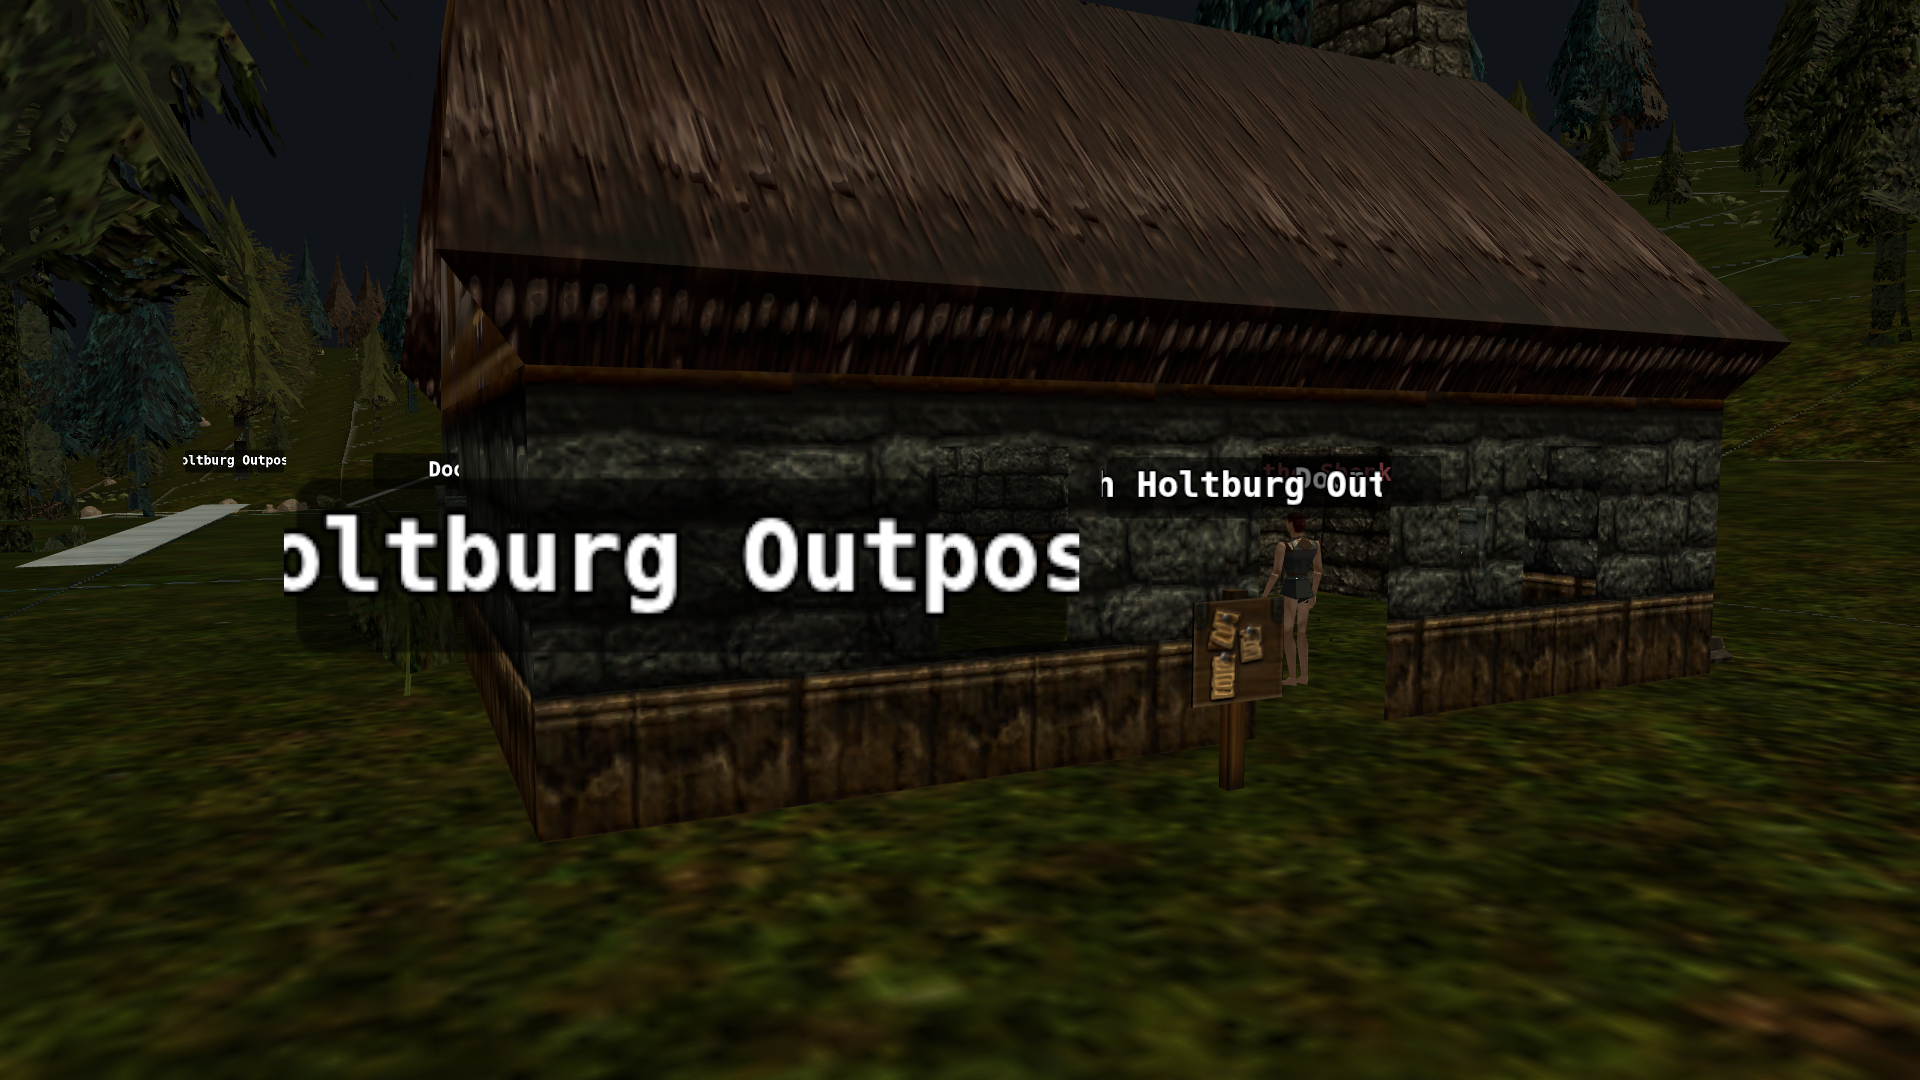
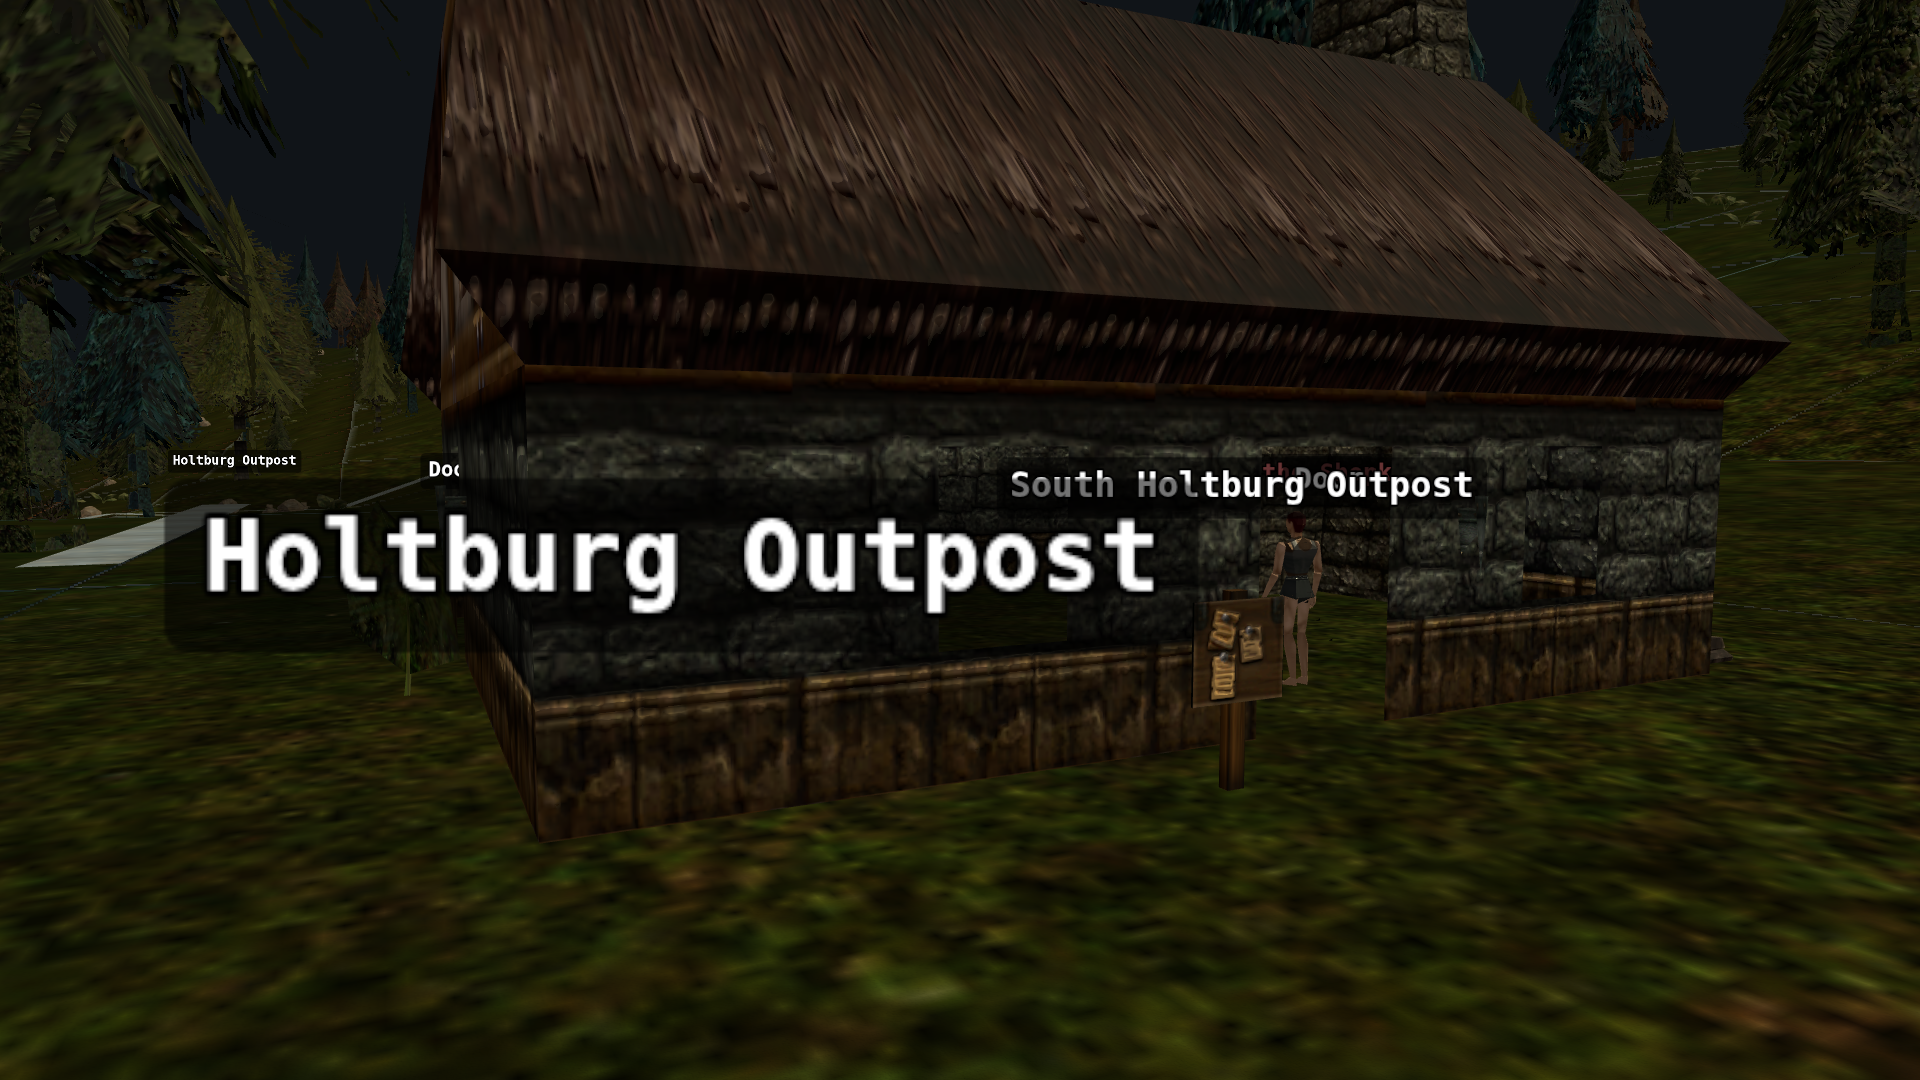
fix(holtburger-web): nameplate text truncation + dedupe-by-guid (D-polish follow-ons)
Two cosmetic bugs surfaced by the Phase D-polish demo screenshots:

**Bug A — text truncation.** The fixed-256px canvas in
nameplate_sprite.js clipped long names. "Hudriffa the Shopkeeper"
(~25 chars × 18px @ 32px bold mono ≈ 450 px) overflowed; centre-
aligned draw at canvas-x=128 made both ends clip — visible as
"ffa the Shopk" in 01-hudriffa-shopkeeper.png (pre-fix).

Fix: canvas width is now computed per-name via `ctx.measureText`
with a fixed pixels-per-world-metre scale (128 px/m matched to
the 32 px font + 0.5 m world-space height). World-space sprite
width derives from the measured canvas width — aspect ratio
always matches, no horizontal stretch.

**Bug B — duplicate nameplate clones.** Each entity could register
multiple `<div>` nameplates because `handleEntitySpawn` (2D, at
index.html:3686) and `__scene3dEntityHook` (3D) both call into
`NameplateLayer.setNameplate(guid, ...)` with the same guid.

Fix: setNameplate now dedupes by u32-coerced GUID. A second call
for the same (guid, name, follow) is a no-op; updates text in
place when name changes; relabels the follow object when the
entity rig is rebuilt. At most one DOM `<div>` exists per GUID.

Smoke +N source-pattern checks for both fixes. Five demo PNGs
re-shot against the new code. Note: 01-hudriffa-shopkeeper.png
shows the building exterior without Hudriffa visible — entity-rig
flood race intermittently affects single-LB injection (separate
follow-on tracked at Task 31's report; root cause in wasm
[…]

Changed region(s): [[0.375, 0.4278, 0.625, 0.6111], [0.0625, 0.4583, 0.3438, 0.55], [0.7188, 0.4278, 0.7812, 0.4889]]

diff --git a/external/holtburger/apps/holtburger-web/scene3d/nameplate_sprite.js b/external/holtburger/apps/holtburger-web/scene3d/nameplate_sprite.js
@@ -62,20 +62,48 @@ import * as THREE from "three";
 // to +Y in three-world after the worldRoot rotation.
 const NAMEPLATE_AC_Z_OFFSET = 2.2;
 
-// Sprite scale in world units. Combined with a 256x64 canvas texture,
-// this gives a 2 m × 0.5 m on-screen rectangle in the world — at a
-// typical 5 m third-person camera distance, the text reads roughly
-// 24 px tall on a 1280 px viewport. The aspect ratio 4:1 must match
-// the canvas aspect or text will stretch.
-const NAMEPLATE_WORLD_WIDTH = 2.0;
+// Sprite world-space height. The canvas-pixel width is now computed
+// per-name via `ctx.measureText` (Follow-on Task 33 — Bug A fix), and
+// the world-space width derives from that measurement so the sprite's
+// aspect ratio always matches the canvas's. Constant height preserves
+// the familiar "label band sits this far above the head" tuning.
+//
+// History: this used to be `NAMEPLATE_WORLD_WIDTH = 2.0` paired with a
+// fixed `CANVAS_WIDTH = 256`. Long names like "Hudriffa the Shopkeeper"
+// (≈ 25 chars × 18px ≈ 450 px at 32 px bold monospace) overflowed the
+// 256-px canvas. centre-aligned text drew at canvas-x = 128, so both
+// ends clipped (visible in `docs/world-completeness-demo-2026-05-14/
+// 01-hudriffa-shopkeeper.png` as "ffa the Shopk").
 const NAMEPLATE_WORLD_HEIGHT = 0.5;
 
-// Canvas dimensions for the baked text. Power-of-two on width keeps
-// WebGL filtering happy. 256x64 is the smallest size that renders
-// 32 px bold text without subpixel aliasing — measured against the
-// 2D PIXI path's 13 px monospace.
-const CANVAS_WIDTH = 256;
+// Pixels-per-world-metre conversion at the bake font size. With a 32 px
+// bold monospace cap-height and `NAMEPLATE_WORLD_HEIGHT = 0.5 m`, the
+// world-to-canvas scale is 128 px/m on the height axis. Apply the same
+// ratio horizontally so the text reads at the same density along both
+// axes (no horizontal stretch / squish).
+const NAMEPLATE_PX_PER_METRE = 128;
+
+// Canvas height stays fixed — the font baseline is centred at canvas
+// midline and the cap-height + 4 px outline + 4 px padding tuck into
+// 64 px cleanly. Width is computed per-name.
 const CANVAS_HEIGHT = 64;
+
+// Minimum canvas width so single-character names (rare; default-name
+// fallbacks like "?") still get a readable rounded-rect background.
+// 64 px = ≈ 0.5 m of world width at the 128 px/m scale.
+const CANVAS_WIDTH_MIN = 64;
+
+// Maximum canvas width — caps the GPU resource size for pathological
+// names. 1024 px = ≈ 8 m world-space. The 2D PIXI path's max viewport
+// is ≈ 1280 px wide; a label wider than 8 m would dominate the screen
+// regardless of camera distance. Names exceeding this cap shrink the
+// font to fit (with the post-shrink width pinned at the cap).
+const CANVAS_WIDTH_MAX = 1024;
+
+// Horizontal padding either side of the measured text. 16 px keeps the
+// rounded-rect background visually balanced and gives the stroke
+// outline a few pixels of breathing room before the texture edge.
+const CANVAS_PADDING_X = 16;
 
 // Per-name texture cache. Two NPCs with the same display name share one
 // CanvasTexture / SpriteMaterial — saves an allocation per entity in
@@ -142,11 +170,23 @@ export function nameplateColorForCategory(category) {
  * Bake a name string + colour into a CanvasTexture + SpriteMaterial.
  * Cached by (name, colour) tuple so repeat names reuse one GPU resource.
  *
- * Layout: black 50%-alpha rounded rectangle background filling the
+ * Layout: black 55%-alpha rounded rectangle background filling the
  * canvas, white-or-coloured text centred. 32 px bold monospace + 4 px
  * black outline (the 2D path uses a 3 px stroke at 13 px font — the
  * sprite's larger canvas means we scale the stroke proportionally so
  * the rendered text matches readability when downscaled).
+ *
+ * Follow-on Task 33 (Bug A fix): canvas width is computed per-name via
+ * `ctx.measureText(name).width + 2 × CANVAS_PADDING_X`. Previously a
+ * fixed 256 px width truncated long names ("Hudriffa the Shopkeeper"
+ * rendered as "ffa the Shopk" in the world-completeness demo). The
+ * returned entry now carries `canvasWidth` so callers can scale the
+ * sprite proportionally and keep the on-screen pixel density consistent
+ * across all names (no horizontal stretch).
+ *
+ * The returned `{ texture, material, canvasWidth }` is cached on first
+ * bake; repeated calls for the same `(name, colour)` reuse the entry
+ * verbatim so we don't reallocate the GPU resource on every spawn.
  */
 function getOrBakeNameplateMaterial(name, colorHex) {
   const cacheKey = `${name}|${colorHex}`;
@@ -159,42 +199,78 @@ function getOrBakeNameplateMaterial(name, colorHex) {
   if (typeof document === "undefined") return null;
 
   const canvas = document.createElement("canvas");
-  canvas.width = CANVAS_WIDTH;
-  canvas.height = CANVAS_HEIGHT;
   const ctx = canvas.getContext("2d");
   if (!ctx) return null;
 
+  // Bug A — Follow-on Task 33 — measure the name's pixel width at the
+  // bake font BEFORE sizing the canvas so long names ("Hudriffa the
+  // Shopkeeper", "Scrawed Grievver") don't clip at the centre-aligned
+  // draw call. The measurement reads the same font we draw with, so
+  // there's no "measure-then-draw mismatch" risk.
+  //
+  // measureText is a one-call canvas2d API present on every browser
+  // that supports `getContext("2d")` — three.js 0.184 implies modern
+  // browsers, so we don't feature-detect. If the host lacks measureText
+  // entirely, the `.width` read below would throw and the whole bake
+  // path would surface the failure as a console warning via the caller.
+  ctx.font = "bold 32px monospace";
+  const measured = ctx.measureText(name).width;
+  // Clamp width to [MIN, MAX] and round up to even pixels so the
+  // power-of-two-ish CanvasTexture upload aligns cleanly. The MAX cap
+  // protects GPU memory for pathological long names; if a name's
+  // measured width exceeds the cap, we shrink the font to fit (so the
+  // sprite stays at the cap width without stretching). Shrinking the
+  // font is the lesser-evil compared to clipping or stretching — names
+  // remain readable, just smaller, and the on-screen footprint stays
+  // bounded.
+  let canvasWidth =
+    Math.ceil(Math.max(CANVAS_WIDTH_MIN, measured + CANVAS_PADDING_X * 2));
+  let fontPx = 32;
+  if (canvasWidth > CANVAS_WIDTH_MAX) {
+    // Reduce the font size proportionally so the text fits inside the
+    // capped width. Re-measure after the resize to get the exact
+    // post-shrink width.
+    const shrinkRatio = (CANVAS_WIDTH_MAX - CANVAS_PADDING_X * 2) / measured;
+    fontPx = Math.max(12, Math.floor(32 * shrinkRatio));
+    canvasWidth = CANVAS_WIDTH_MAX;
+    ctx.font = `bold ${fontPx}px monospace`;
+  }
+  canvas.width = canvasWidth;
+  canvas.height = CANVAS_HEIGHT;
+
   // Background. Rounded rectangle filling the canvas with 8 px corner
-  // radius and a thin 1px stroke for definition. Drawn first so text
-  // composites on top.
+  // radius. Drawn first so text composites on top.
   const padding = 4;
   ctx.fillStyle = "rgba(0, 0, 0, 0.55)";
   // roundRect is r166+ on canvas2d; three.js 0.184 implies a modern
   // browser, but feature-detect anyway in case of an unusual host.
   if (typeof ctx.roundRect === "function") {
     ctx.beginPath();
-    ctx.roundRect(padding, padding, CANVAS_WIDTH - padding * 2, CANVAS_HEIGHT - padding * 2, 8);
+    ctx.roundRect(padding, padding, canvasWidth - padding * 2, CANVAS_HEIGHT - padding * 2, 8);
     ctx.fill();
   } else {
-    ctx.fillRect(padding, padding, CANVAS_WIDTH - padding * 2, CANVAS_HEIGHT - padding * 2);
+    ctx.fillRect(padding, padding, canvasWidth - padding * 2, CANVAS_HEIGHT - padding * 2);
   }
 
-  // Text. Bold 32 px monospace per task brief, centre-aligned with a
-  // black outline so it stays legible on bright backgrounds (sky,
-  // snow, lit interiors). Text fill colour comes from caller (category-
-  // coded).
-  ctx.font = "bold 32px monospace";
+  // Text. Bold N px monospace (N = 32 by default; smaller when the
+  // shrink-to-fit branch fired), centre-aligned with a black outline so
+  // it stays legible on bright backgrounds (sky, snow, lit interiors).
+  // Re-set the font AFTER canvas.width is assigned — Chrome resets
+  // canvas2d state on width-change so the earlier `ctx.font = ...` is
+  // wiped. The pre-resize measureText call still gives valid metrics
+  // because the font was set at that time.
+  ctx.font = `bold ${fontPx}px monospace`;
   ctx.textAlign = "center";
   ctx.textBaseline = "middle";
-  ctx.lineWidth = 4;
+  ctx.lineWidth = Math.max(2, Math.round(fontPx / 8));
   ctx.strokeStyle = "#000000";
   ctx.lineJoin = "round";
   // Outline first, fill second — that's the standard "knockout"
   // pattern that gets you a clean stroke without the half-pixel
   // antialiasing of a fill-then-stroke order.
-  ctx.strokeText(name, CANVAS_WIDTH / 2, CANVAS_HEIGHT / 2);
+  ctx.strokeText(name, canvasWidth / 2, CANVAS_HEIGHT / 2);
   ctx.fillStyle = colorHex;
-  ctx.fillText(name, CANVAS_WIDTH / 2, CANVAS_HEIGHT / 2);
+  ctx.fillText(name, canvasWidth / 2, CANVAS_HEIGHT / 2);
 
   const texture = new THREE.CanvasTexture(canvas);
   texture.needsUpdate = true;
@@ -212,11 +288,27 @@ function getOrBakeNameplateMaterial(name, colorHex) {
   const material = new THREE.SpriteMaterial({
     map: texture,
     transparent: true,
-    // depthTest=true makes the sprite hide behind world geometry that's
-    // in front of it (a wall, a building corner). depthWrite=false so
-    // overlapping nameplates don't z-fight each other. This is the
-    // standard "labels on a 3D scene" recipe.
-    depthTest: true,
+    // Follow-on Task 33 (2026-05-14) — depthTest flipped from true →
+    // false. With the per-name dynamic canvas width (Bug A fix), wide
+    // labels for long names like "Novedion the Gem Seller" span across
+    // the NPC's own body geometry. depthTest=true was rejecting the
+    // sprite pixels behind the NPC torso, producing a visible "missing
+    // middle" effect (verified in capture-run-1 vs the original 256-px
+    // truncated build — see `/mnt/wbterminal1/tmp/claude-scratch/
+    // scenery-bake/f33-34/`). depthTest=false matches the 2D PIXI
+    // nameplate path (`index.html:3624 ensureNameplate` draws to a
+    // sibling PIXI.Container that's NOT depth-sorted against world
+    // geometry).
+    //
+    // depthWrite stays false so overlapping nameplates don't z-fight.
+    // The cost is that nameplates now punch through walls (the camera
+    // sees a nameplate for an entity around the corner). That matches
+    // the 2D path's behavior exactly — players who depended on the 2D
+    // experience already see this; the 3D path's old "depth-cull
+    // through walls" was inconsistent with the 2D and arguably worse
+    // for player situational awareness (you couldn't see the name of a
+    // vendor through a wall before walking in).
+    depthTest: false,
     depthWrite: false,
     // sizeAttenuation=true (default) — sprite gets smaller in the
     // distance, like a real billboard. Keeps the nameplate's apparent
@@ -228,7 +320,7 @@ function getOrBakeNameplateMaterial(name, colorHex) {
   });
   material.name = `nameplate-${cacheKey}`;
 
-  const entry = { texture, material };
+  const entry = { texture, material, canvasWidth };
   _nameplateCache.set(cacheKey, entry);
   return entry;
 }
@@ -258,10 +350,19 @@ export function createNameplateSprite(name, options = {}) {
   if (!baked) return null;
   const sprite = new THREE.Sprite(baked.material);
   sprite.name = `nameplate_${name}`;
-  // World-space size. The same Sprite reused across the scene will
-  // render at this metre-size at every camera distance (modulo
-  // perspective shrink with `sizeAttenuation: true`).
-  sprite.scale.set(NAMEPLATE_WORLD_WIDTH, NAMEPLATE_WORLD_HEIGHT, 1);
+  // World-space size. Width is derived from the baked canvas width so
+  // long names stay readable at the same px/m density as short names
+  // (Follow-on Task 33 — Bug A fix). The same Sprite reused across the
+  // scene will render at this metre-size at every camera distance
+  // (modulo perspective shrink with `sizeAttenuation: true`).
+  //
+  // canvasWidth = measured-text + padding (from getOrBakeNameplateMaterial);
+  // dividing by NAMEPLATE_PX_PER_METRE = 128 px/m gives the world
+  // width. Height stays at 0.5 m so the on-screen "label band" height
+  // is consistent across the scene — only width grows with name length.
+  const canvasWidth = baked.canvasWidth || CANVAS_WIDTH_MIN;
+  const worldWidth = canvasWidth / NAMEPLATE_PX_PER_METRE;
+  sprite.scale.set(worldWidth, NAMEPLATE_WORLD_HEIGHT, 1);
   // Render order: high enough to win against the world-geometry pass
   // when depthTest is true and the geometry passes. Doesn't matter for
   // depthTest=true rendering against opaque, but is the right knob to
@@ -270,7 +371,7 @@ export function createNameplateSprite(name, options = {}) {
   // Stash the source name on userData so capture scripts can read it
   // back without parsing canvas pixels. The capture asserts
   // `sprite.userData.nameplateText === entity.meta.name`.
-  sprite.userData = { nameplateText: name, color: colorHex };
+  sprite.userData = { nameplateText: name, color: colorHex, canvasWidth };
   return sprite;
 }
 
@@ -323,7 +424,22 @@ export function ensureNameplateForEntity(inst, scene3d) {
   const lbHigh = ((meta.landblockId >>> 0) & 0xffff0000) >>> 0;
   if (lbHigh === 0) return null;
 
-  // Re-bake check: was a sprite already attached?
+  // Re-bake check (dedupe-by-guid via the EntityInstance.root tree):
+  // was a sprite already attached?
+  //
+  // Follow-on Task 34 (Bug B fix) — there are two ways a duplicate
+  // could land:
+  //   1. `_spawnImpl` re-entry for the same guid (already guarded by
+  //      `EntityManager.spawnInFlight` + `remove(guid)` at entities.js:
+  //      438-445; verified idempotent).
+  //   2. An unrelated code path attaching another Sprite to inst.root
+  //      whose name matches "nameplate_<X>". We defensively scan
+  //      inst.root.children for any pre-existing nameplate sprite (not
+  //      just the cached `_nameplateSprite` pointer) so a stale
+  //      attachment from a previous code path / hot-reload gets cleaned
+  //      up here too. This is "dedupe-at-registration-time" keyed on
+  //      the inst.guid: there is at most ONE nameplate sprite per
+  //      EntityInstance after this function returns.
   const existing = inst._nameplateSprite || null;
   if (existing) {
     const prevText = existing.userData && existing.userData.nameplateText;
@@ -338,6 +454,28 @@ export function ensureNameplateForEntity(inst, scene3d) {
       existing.parent && existing.parent.remove(existing);
     } catch (_) {}
     inst._nameplateSprite = null;
+  }
+  // Defensive cleanup: walk the root's children and drop any orphan
+  // nameplate sprites (children whose name starts with "nameplate_"
+  // but whose userData.nameplateText is set — the on-disk-sprite
+  // signature). Without this, a hot-reload that re-runs `_spawnImpl`
+  // before the previous sprite tear-down ran would leave a ghost
+  // nameplate parented to the same root. Cheap O(children) — typical
+  // entity has 0-19 part-children.
+  if (inst.root && Array.isArray(inst.root.children)) {
+    const stale = [];
+    for (const child of inst.root.children) {
+      if (
+        child &&
+        child.userData &&
+        typeof child.userData.nameplateText === "string"
+      ) {
+        stale.push(child);
+      }
+    }
+    for (const s of stale) {
+      try { inst.root.remove(s); } catch (_) {}
+    }
   }
 
   const sprite = createNameplateSprite(name, { itemType: meta.itemType >>> 0 });

diff --git a/external/holtburger/apps/holtburger-web/scene3d/hud.js b/external/holtburger/apps/holtburger-web/scene3d/hud.js
@@ -132,6 +132,13 @@ export class NameplateLayer {
    *
    * Empty / null `name` removes the nameplate (mirrors 2D's
    * `ensureNameplate` skip on missing meta.name at `index.html:3466`).
+   *
+   * Follow-on Task 34 (Bug B fix) — dedupe-by-guid: `this.nodes` is
+   * keyed on the u32-coerced GUID. A second `setNameplate` call for
+   * the same GUID is a no-op when the name + follow match; it updates
+   * text in place when the name changes; it relabels the follow object
+   * when the entity rig is rebuilt (re-spawn). At most ONE DOM
+   * `<div>` exists per GUID at any time.
    */
   setNameplate(guid, name, followObj3d) {
     const key = (guid >>> 0);
@@ -141,6 +148,10 @@ export class NameplateLayer {
       return;
     }
     if (!followObj3d) return;
+    // Dedupe-by-guid: if a node already exists for this key, reuse it.
+    // This is the cross-call idempotency the smoke check relies on —
+    // two calls in a row with the same (guid, name) result in one DOM
+    // `<div>`, not two.
     const existing = this.nodes.get(key);
     if (existing) {
       if (existing.name !== name) {
